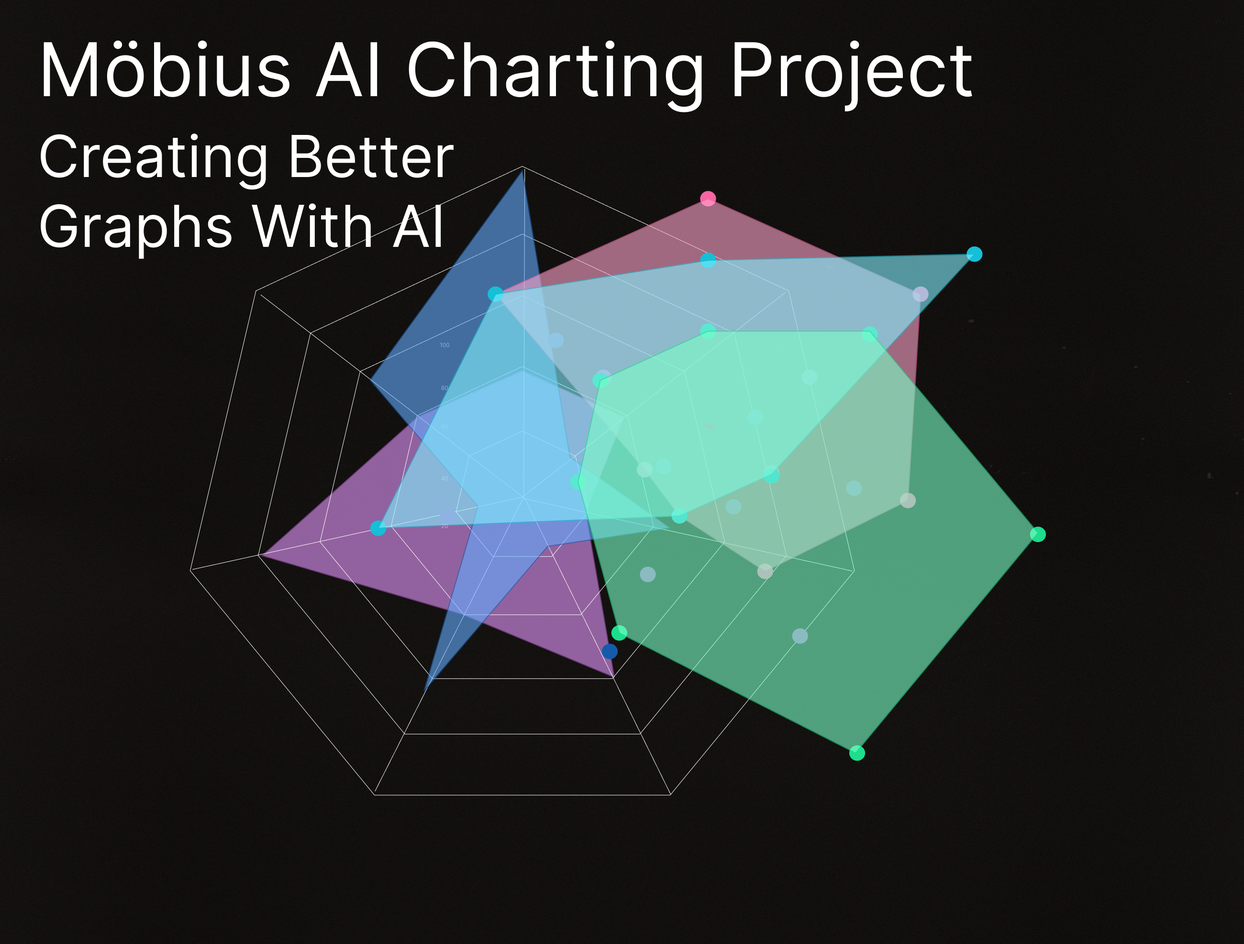
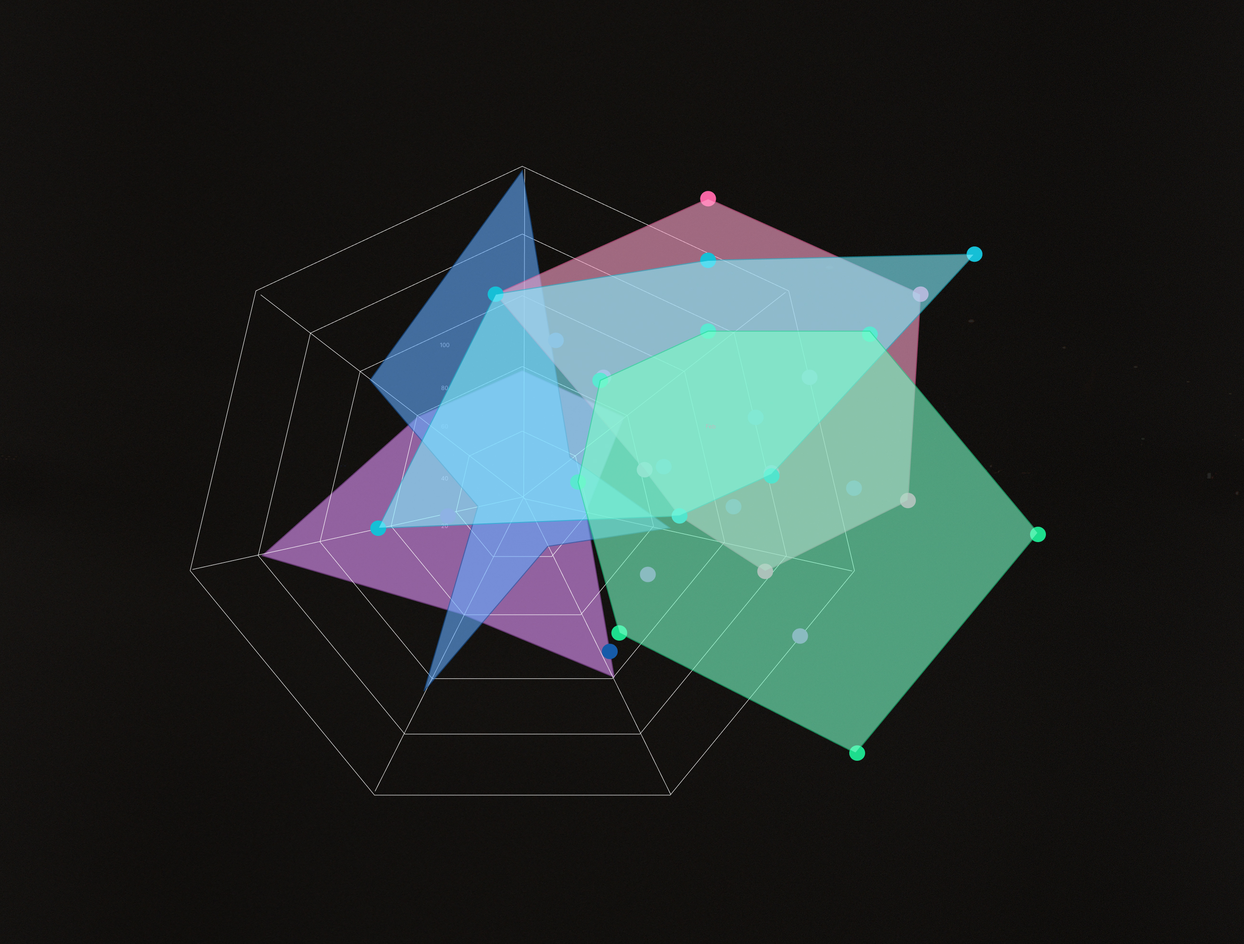
checked in research section project-1

Changed region(s): [[0.0312, 0.0309, 0.7788, 0.2783], [0.3427, 0.0928, 0.3738, 0.1237]]

diff --git a/portfolio/project-1.html b/portfolio/project-1.html
@@ -200,7 +200,7 @@
         receive insightful and actionable data visualizations when querying
         market trends.
       </p>
-      <img src="../images/project-1.jpg" alt="Project Overview" />
+      <img src="../images/project-1.cover.jpg" alt="Project Overview" />
     </div>
 
     <!-- Challenge Section -->
@@ -230,11 +230,22 @@
     <div class="section">
       <h2>Research & Planning</h2>
       <p>
-        Before diving into the design, thorough research was conducted,
-        including [user research methods, competitive analysis, wireframing].
-        The insights gained helped shape the direction of the project.
+        We conducted user research with Wall Street investors, corporate executives, and data analysts to understand their workflow pain points. The key takeaways:
       </p>
-      <img src="../images/project-1.jpg" alt="Research & Planning" />
+      <ul>
+        <li>Users preferred dynamic, customizable dashboards.</li>
+        <li>Graphs needed to be interactive, allowing drill-downs into specific data points.</li>
+        <li>AI-driven query recommendations would help users refine their searches.</li>
+        <li>Dark mode and accessibility improvements were essential for prolonged usage.</li>
+      </ul>
+      
+      <h3>Key Research Methods</h3>
+      <ul>
+        <li><strong>User Interviews:</strong> Conducted with 15+ finance professionals.</li>
+        <li><strong>Competitive Analysis:</strong> Studied existing solutions like Bloomberg Terminal and Eikon.</li>
+        <li><strong>Usability Testing:</strong> Iterated on UI/UX designs based on user feedback.</li>
+      </ul>
+      <img src="../images/project-1.a.jpg" alt="Research & Planning" />
     </div>
 
     <!-- Designing the Solution -->
